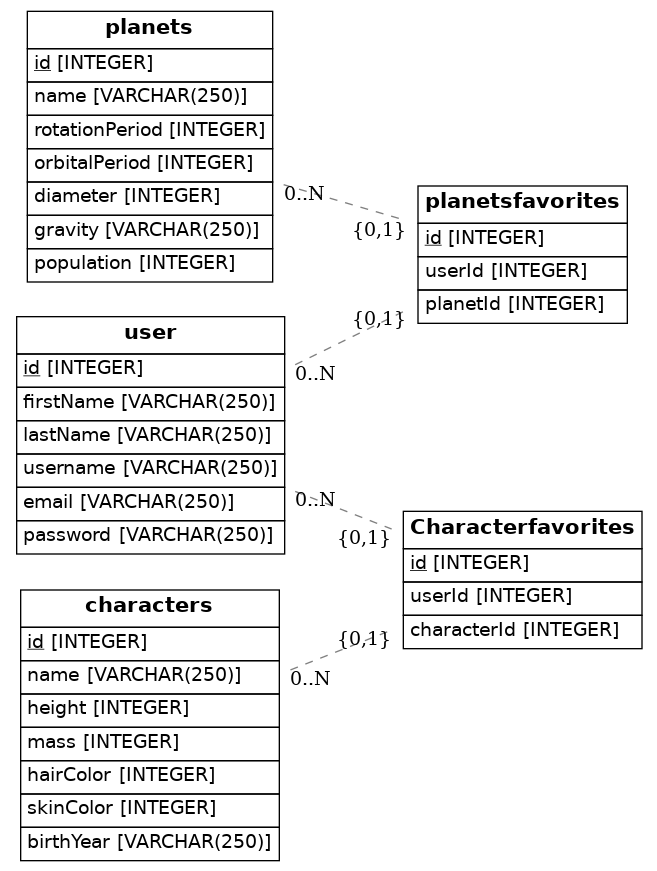
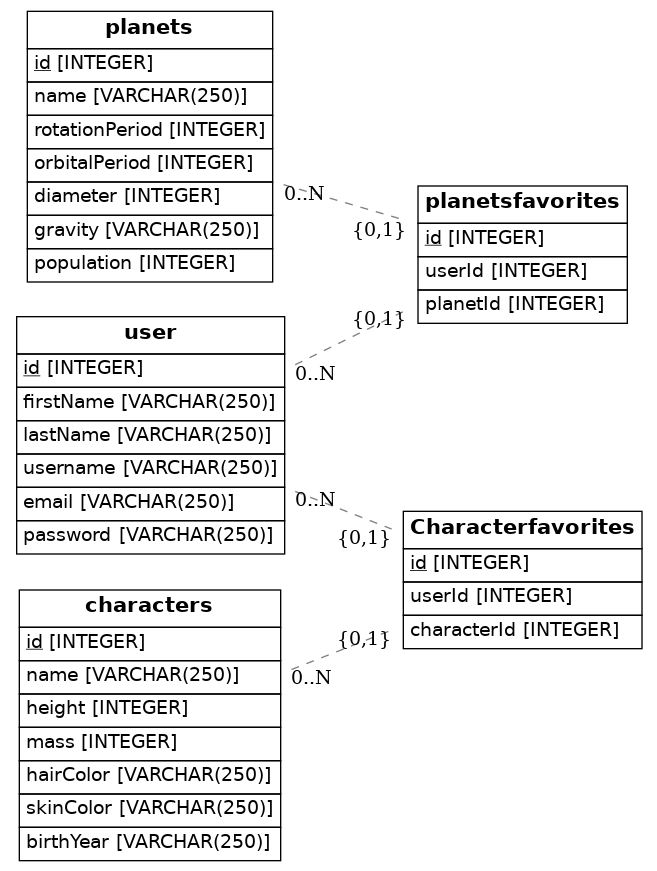
fixed some column types

Changed region(s): [[0.0304, 0.713, 0.4262, 0.992], [0.4262, 0.744, 0.5175, 0.806]]

diff --git a/src/models.py b/src/models.py
@@ -16,6 +16,8 @@ class User(Base):
     username = Column(String(250), nullable=False)
     email = Column(String(250), nullable=False)
     password = Column(String(250), nullable=False)
+    likeCharacter = relationship("CharacterFavorites")
+    likePlanet = relationship("PlanetsFavorites")
     
 class Planets(Base):
     __tablename__ = 'planets'
@@ -27,7 +29,8 @@ class Planets(Base):
     orbitalPeriod = Column(Integer) 
     diameter = Column(Integer) 
     gravity = Column(String(250))
-    population = Column(Integer) 
+    population = Column(Integer)
+    likePlanet = relationship("PlanetsFavorites") 
     
 
 class Characters(Base):
@@ -38,9 +41,10 @@ class Characters(Base):
     name = Column(String(250))
     height = Column(Integer) 
     mass = Column(Integer)
-    hairColor = Column(Integer) 
-    skinColor = Column(Integer)
+    hairColor = Column(String(250)) 
+    skinColor = Column(String(250))
     birthYear = Column(String(250))
+    likeCharacter = relationship("CharacterFavorites")
     
 
 class PlanetsFavorites(Base):
@@ -48,16 +52,14 @@ class PlanetsFavorites(Base):
     id = Column(Integer, primary_key=True)
     userId = Column(Integer, ForeignKey("user.id"))
     planetId = Column(Integer, ForeignKey("planets.id"))
-    planets = relationship(Planets)
-    user = relationship(User)
+   
     
 class CharacterFavorites(Base):
     __tablename__ = 'Characterfavorites'
     id = Column(Integer, primary_key=True)
     userId = Column(Integer, ForeignKey("user.id"))
     characterId = Column(Integer, ForeignKey("characters.id"))
-    characters = relationship(Characters)
-    user = relationship(User)
+  
 
 
     def to_dict(self):
